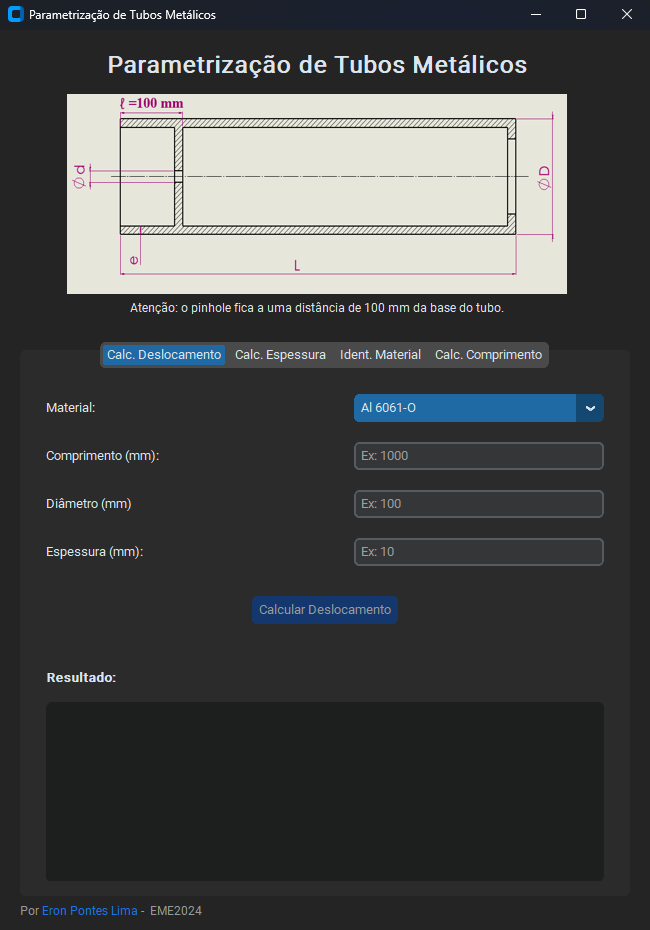
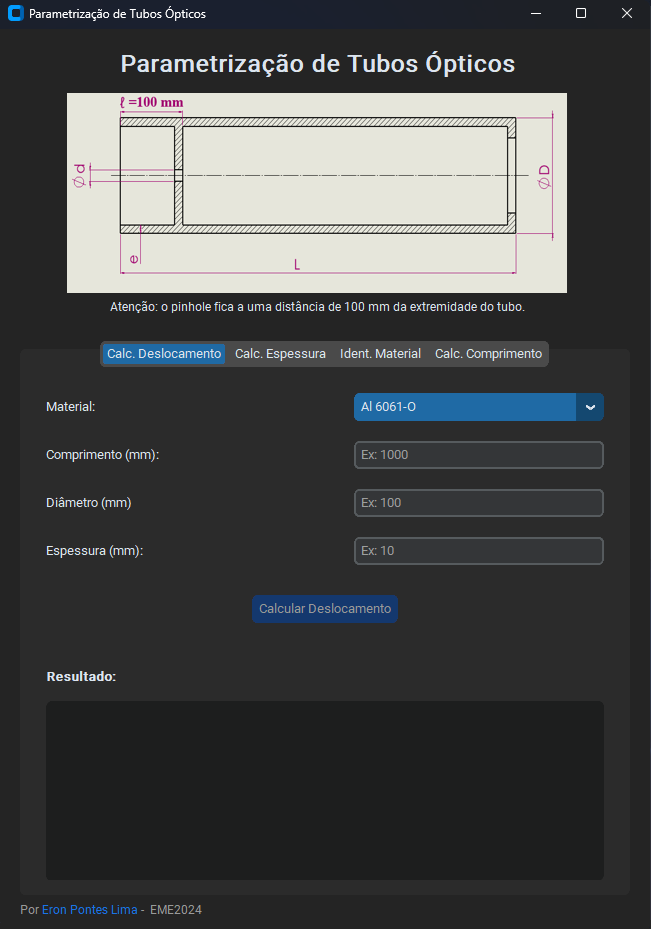
update front panel

diff --git a/src/AppY.py b/src/AppY.py
@@ -21,7 +21,7 @@ class App(ctk.CTk):
     def __init__(self) -> None:
         super().__init__()
 
-        self.title("Parametrização de Tubos Metálicos")
+        self.title("Parametrização de Tubos Ópticos")
 
         self.geometry("550x900")
         # self.minsize(550, 600)
@@ -98,7 +98,7 @@ class App(ctk.CTk):
 
         self.title_label = ctk.CTkLabel(
             self.header_frame,
-            text="Parametrização de Tubos Metálicos",
+            text="Parametrização de Tubos Ópticos",
             font=ctk.CTkFont(size=24, weight="bold"),
         )
         self.title_label.pack(side="top", padx=(0, 15))
@@ -117,7 +117,7 @@ class App(ctk.CTk):
 
         self.label_aviso = ctk.CTkLabel(
             self.header_frame,
-            text="Atenção: o pinhole fica a uma distância de 100 mm da base do tubo.",
+            text="Atenção: o pinhole fica a uma distância de 100 mm da extremidade do tubo.",
             font=ctk.CTkFont(size=12),
         )
         self.label_aviso.pack(side="top", padx=(0, 15))
